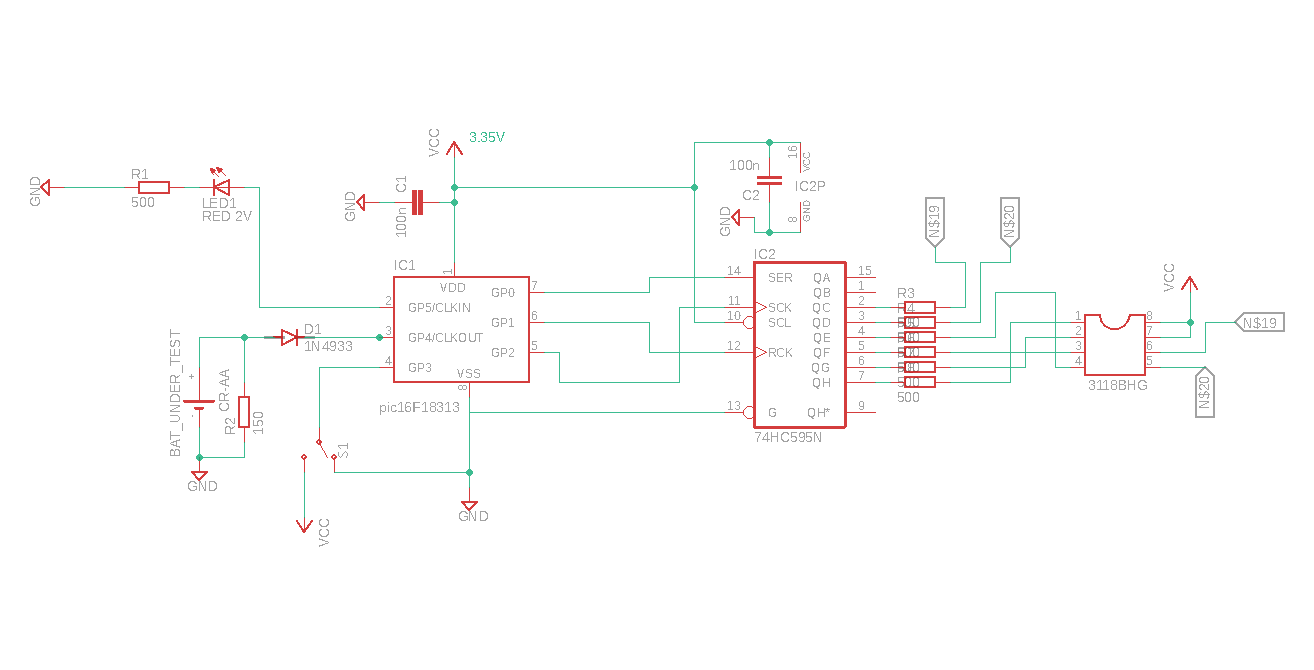
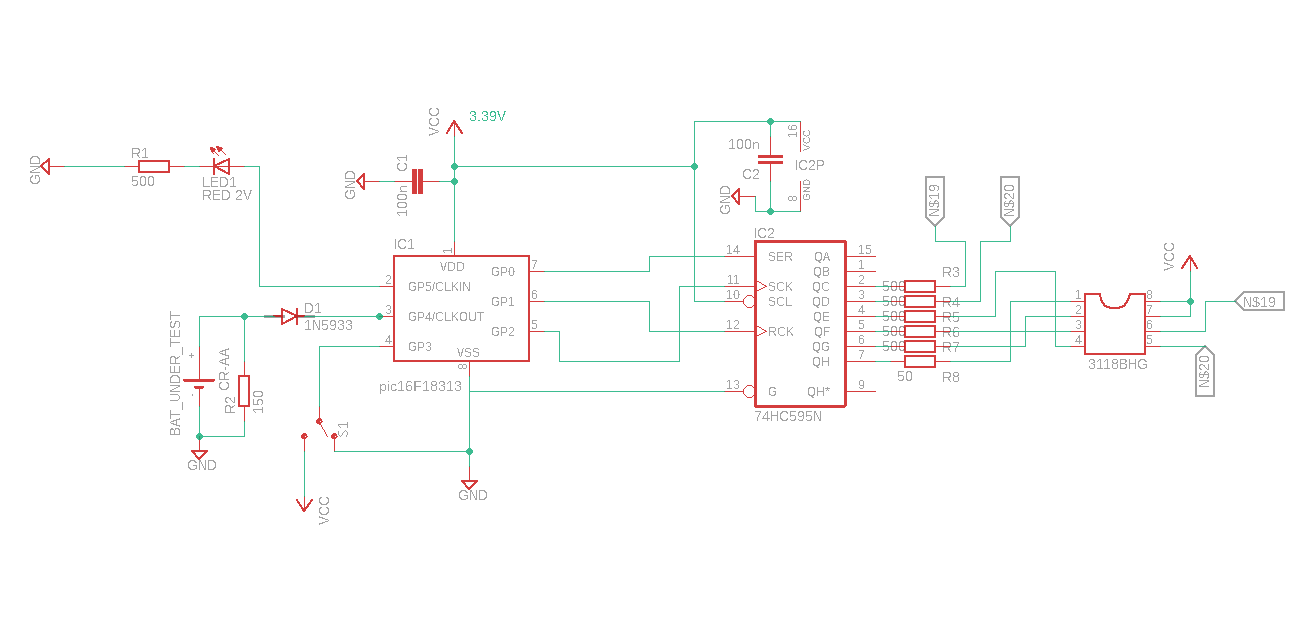
update for production prototype

diff --git a/projects/bargraph/main.c b/projects/bargraph/main.c
@@ -13,7 +13,7 @@
 #include "mcc_generated_files/mcc.h"
 
 /* ======== Defines   ======== */
-#define ADCRES 0.003274682 // ADC  per volt = 3.35/1023, vcc/adc , 
+#define ADCRES 0.00331 // ADC  per volt = 3.39/1023, vcc/adc ,
 #define SCLK_DELAY 500 //delay in uS for shift reg clock
 #define RCLK_DELAY 500 //delay in uS for shift reg latch
 

diff --git a/projects/bargraph/README.md b/projects/bargraph/README.md
@@ -52,10 +52,34 @@ for rechargeable and off for non-rechargeable to indicate mode.
 A shift register drives the LED 3118BHG module which has six outputs LEDs.
 The more LED's the higher battery level.
 The battery under test is connected to RA4 and is read using the ADC. 
-The software currently assumes a Pic VCC of 3.35 this can be changed 
+The software currently assumes a Pic VCC of 3.39 this can be changed 
 by changing a define. The data is fed to module LSB and because the 3118BHG
 is common cathode it is flipped i.e. zero for LED on one for off.
-See code for the voltage ranges applied to bargraph for both modes.
+Voltage ranges applied to bargraph for both modes:
+
+Rechargeable mode 
+
+| Voltage range  | LEDs on  | 
+| --- | --- |
+| 0 - 0.5 |  None |
+| 0.5 - 0.9 | One red |
+| 0.9 - 1.0 | Two red |
+| 1.0 - 1.1 | Three red |
+| 1.1 - 1.2 | Four red |
+| 1.2 - 1.35 | Five red |
+| > 1.35  | Five red + green |
+
+Non-Rechargeable mode 
+
+| Voltage range  | LED on  | 
+| --- | --- |
+| 0 - 0.8 |  None |
+| 0.8 - 1.0 | One red |
+| 1.0 - 1.2 | Two red |
+| 1.2 - 1.3 | Three red |
+| 1.3 - 1.4 | Four red |
+| 1.4 - 1.55 | Five red |
+| > 1.55 | Five red + green |
 
 ![ PIC ](https://github.com/gavinlyonsrepo/pic_16F18313_projects/blob/master/images/bargraph.jpg)
 
